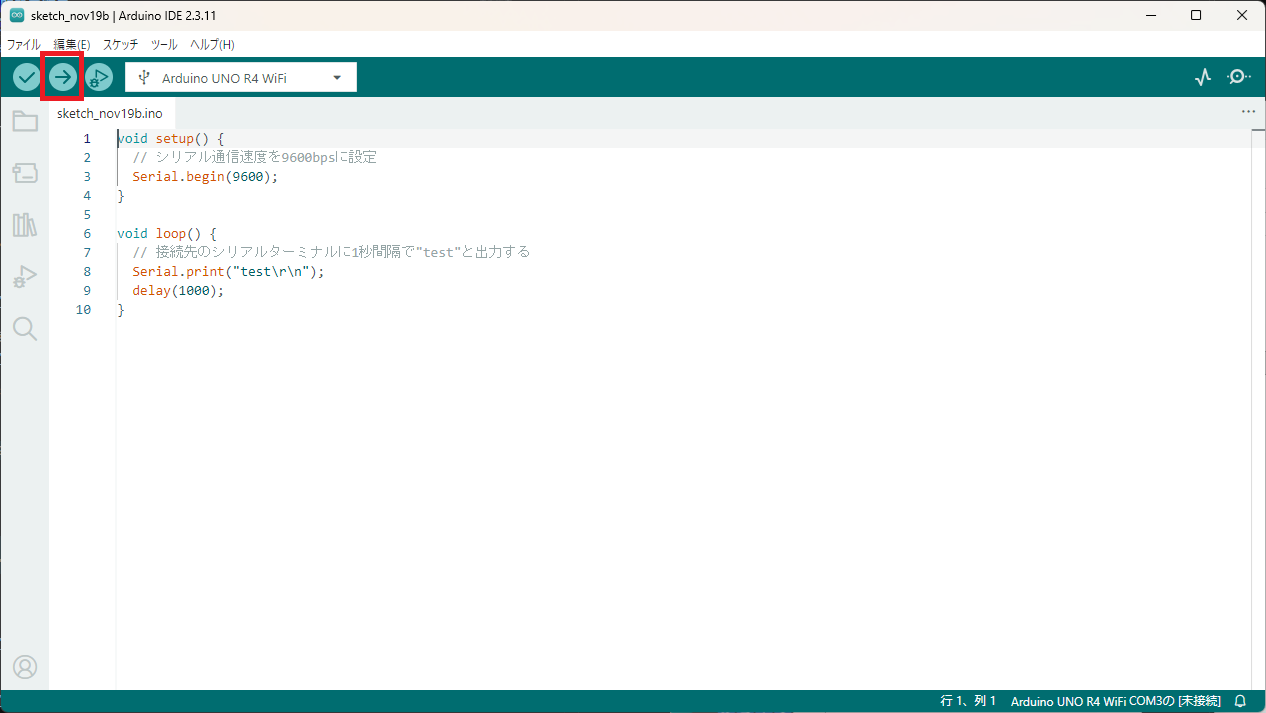
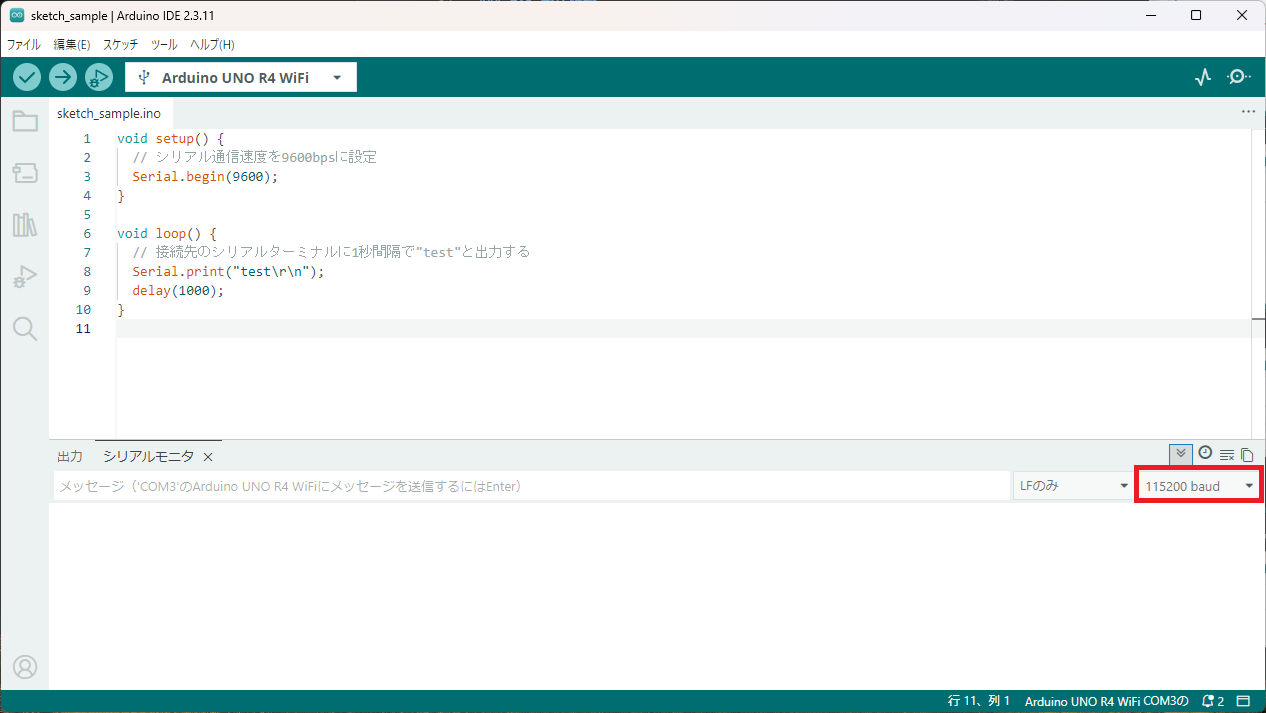
#4369_mod_手順書2章作成

diff --git a/boards/uno_r4_wifi/Arduino_UNO_R4_WiFi編.md b/boards/uno_r4_wifi/Arduino_UNO_R4_WiFi編.md
@@ -53,7 +53,7 @@
 
 | ツール | 接続方法 |
 |---|---|
-| Tera Term | Serial |
+| Arduino IDE | PC 上。接続なし。 |
 
 ### 2.2 通信設定(ポート、ボーレートなど)
 
@@ -66,12 +66,6 @@
 1. 開発 PC の USB ポートに Arduino UNO R4 WiFi を接続する。<br>
 
 1. Arduino IDE を起動する。<br>
-
-1. 「ファイル」 を押下する。<br>
-<img src="./images/u1_serial_terminal_01.png" width=60%>
-
-1. 「新規スケッチ」 を押下する。<br>
-<img src="./images/u1_serial_terminal_02.png" width=60%>
 
 1. スケッチを次のコードに書き換える。<br>
     ```cpp
@@ -86,34 +80,20 @@
       delay(1000);
     }
     ```
-    <img src="./images/u1_serial_terminal_03.png" width=60%>
+    <img src="./images/u1_serial_terminal_01.png" width=60%>
 
 1. 「書き込み」 を押下する。<br>
+<img src="./images/u1_serial_terminal_02.png" width=60%>
+
+1. シリアルモニタのアイコンを押下する。<br>
+<img src="./images/u1_serial_terminal_03.png" width=60%>
+
+1. シリアルモニタのシリアル通信速度を ***9600baud* に変更する。<br>
 <img src="./images/u1_serial_terminal_04.png" width=60%>
 
-1. Tera Term を起動する。<br>
-
-1. 「シリアル」 を押下する。<br>
+1. シリアルモニタの出力を確認する。<br>
 <img src="./images/u1_serial_terminal_05.png" width=60%>
-
-1. 「OK」 を押下する。<br>
-<img src="./images/u1_serial_terminal_06.png" width=60%>
-
-1. 「設定」 を押下する。<br>
-<img src="./images/u1_serial_terminal_07.png" width=60%>
-
-1. 「端末」 を押下する。<br>
-<img src="./images/u1_serial_terminal_08.png" width=60%>
-
-1. 「シリアルポート」 を押下する。<br>
-<img src="./images/u1_serial_terminal_09.png" width=60%>
-
-1. 「スピード」 を **9600** にする。<br>
-<img src="./images/u1_serial_terminal_10.png" width=60%>
-
-1. 「OK」 を押下する。<br>
-<img src="./images/u1_serial_terminal_11.png" width=60%>
-    > 確認:Tera Term に **test** と出力されればシリアル通信が成功した動作確認となる<br>
+    > 確認: **test** と出力されればシリアルモニタの動作が期待通りであることが確認できる。<br>
 
 ## 3. プロジェクト作成
 
